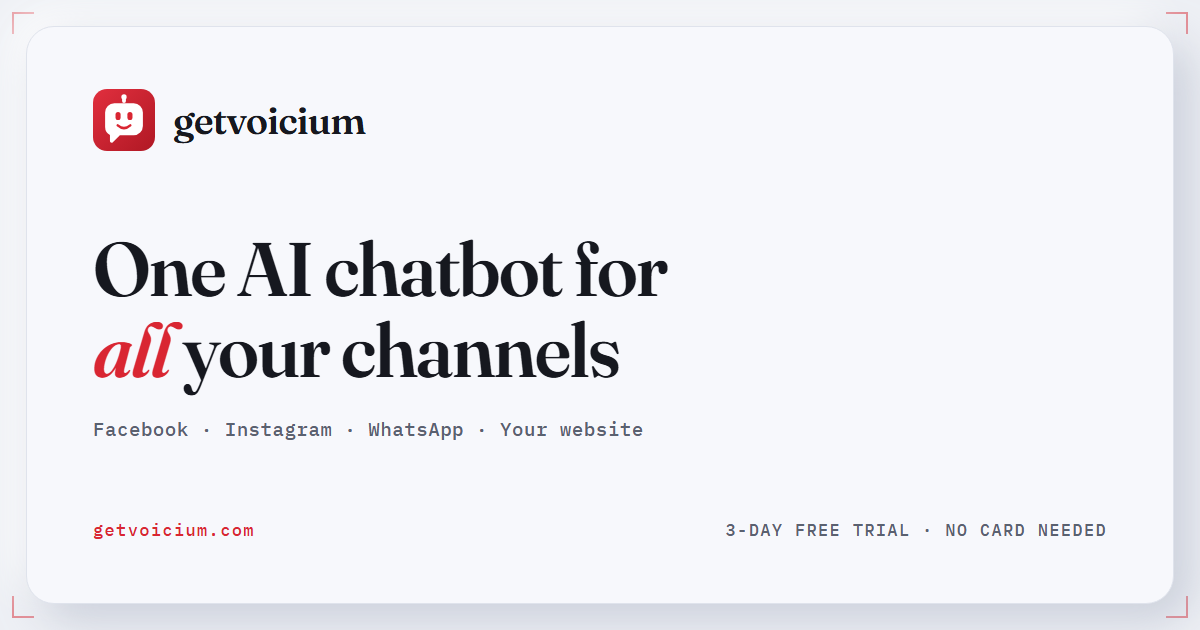
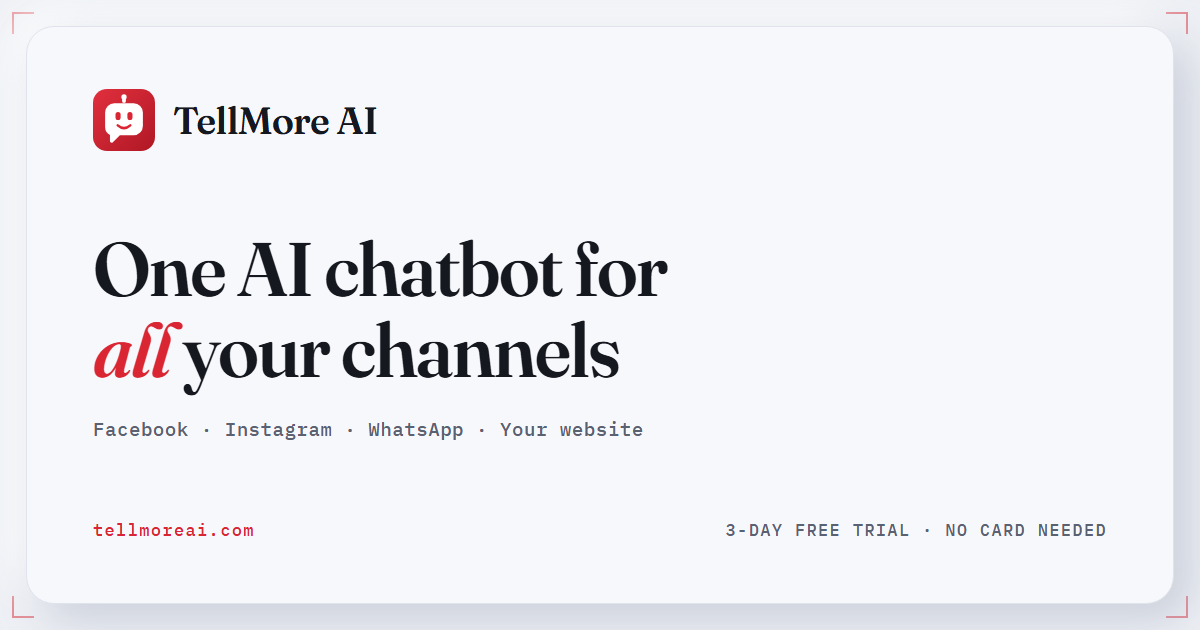
Domain switch in code: every link now points to www.tellmoreai.com
tellmoreai.com is live on Vercel (A 216.198.79.1, apex 308 -> www) and the
new URIs are registered with Meta, Google and Supabase, so the code moves:

- seo.js SITE, robots.js, sitemap -> https://www.tellmoreai.com (canonical,
  og:url, JSON-LD, sitemap all on the new host).
- Emails: every link to the dashboard/admin -> tellmoreai.com. The footer's
  support address was support@getvoicium.com, a mailbox the new brand will
  not keep; it now reads COMPANY.email (office@autolinium.com, the contact the
  site already shows), and every email sets reply_to to it, so "just reply"
  reaches a real inbox whatever address RESEND_FROM sends from.
- push.js VAPID contact defaults to COMPANY.email.
- Admin Meta-webhooks repair default callback -> www.tellmoreai.com.
- Privacy / Terms / PushToggle / preview snippet / screenshot studio text.
- Mobile: Capacitor server.url -> https://www.tellmoreai.com/dashboard
  (NEEDS AN APK REBUILD); the downloaded file is tellmoreai.apk.
- og.png / og-bn.png / logo.png regenerated with tellmoreai.com.
- Video script, docs, README, CLAUDE.md.

Deliberately unchanged (identifiers, not what anyone reads): Android appId
com.getvoicium.app, Firebase project id / google-services.json, the old TWA
assetlinks, the committed keystore's dname.

getvoicium.com keeps serving the same deployment: no redirect yet, because
the installed APK, a client's website widget (API host = its script's
origin) and Meta's webhooks still live on the old host.

45/45 suites.

Changed region(s): [[0.1233, 0.1508, 0.3392, 0.2413], [0.0925, 0.8143, 0.185, 0.8746]]

diff --git a/src/lib/email.js b/src/lib/email.js
@@ -2,6 +2,7 @@
 // break the signup/approval flow. Returns { ok, error }.
 
 import { formatDhakaDate } from "@/lib/time.js";
+import { COMPANY } from "@/lib/company.js";
 
 const RESEND_API_KEY = process.env.RESEND_API_KEY;
 const FROM = process.env.RESEND_FROM || "TellMore AI <onboarding@resend.dev>";
@@ -16,7 +17,9 @@ async function send({ to, subject, html }) {
         Authorization: `Bearer ${RESEND_API_KEY}`,
         "Content-Type": "application/json",
       },
-      body: JSON.stringify({ from: FROM, to: Array.isArray(to) ? to : [to], subject, html }),
+      // reply_to: the footer says "just reply", so a reply must reach a real mailbox
+      // whatever address RESEND_FROM sends from.
+      body: JSON.stringify({ from: FROM, reply_to: COMPANY.email, to: Array.isArray(to) ? to : [to], subject, html }),
     });
     if (!res.ok) {
       const t = await res.text().catch(() => "");
@@ -51,7 +54,7 @@ function clientWrap(title, body) {
     <div style="font-size:17px;font-weight:600;margin-bottom:12px">${title}</div>
     <div style="font-size:14px;line-height:1.7;color:#c9d3e6">${body}</div>
     <div style="height:1px;background:#1a2744;margin:22px 0"></div>
-    <div style="font-size:12px;color:#8b9cbd;line-height:1.7">You're receiving this because you use TellMore AI at <a href="https://www.getvoicium.com" style="color:#D92632;text-decoration:none">getvoicium.com</a>.<br/>Questions? Just reply to this email, or write to <a href="mailto:support@getvoicium.com" style="color:#D92632;text-decoration:none">support@getvoicium.com</a>.</div>
+    <div style="font-size:12px;color:#8b9cbd;line-height:1.7">You're receiving this because you use TellMore AI at <a href="https://www.tellmoreai.com" style="color:#D92632;text-decoration:none">tellmoreai.com</a>.<br/>Questions? Just reply to this email, or write to <a href="mailto:${COMPANY.email}" style="color:#D92632;text-decoration:none">${COMPANY.email}</a>.</div>
   </div>`;
 }
 
@@ -63,7 +66,7 @@ export async function notifyNewAdminSignup(newEmail) {
     html: wrap(
       "New admin access request",
       `<strong style="color:#D92632">${newEmail}</strong> has signed up and is awaiting approval.
-       <br/><br/>Open the <a href="https://www.getvoicium.com/admin" style="color:#D92632">Admin panel</a>,
+       <br/><br/>Open the <a href="https://www.tellmoreai.com/admin" style="color:#D92632">Admin panel</a>,
        enter your secret key, and assign them a role (Viewer, Editor, or Full Access) to approve — or leave them pending to deny.`
     ),
   });
@@ -80,7 +83,7 @@ export async function notifyAdminApproved(adminEmail, role) {
       `Your admin access has been approved with the role
        <strong style="color:#22c55e">${labels[role] || role}</strong>.
        <br/><br/>You can now sign in at the
-       <a href="https://www.getvoicium.com/admin" style="color:#D92632">Admin panel</a>
+       <a href="https://www.tellmoreai.com/admin" style="color:#D92632">Admin panel</a>
        using the email and password you registered with.`
     ),
   });
@@ -100,7 +103,7 @@ export async function notifyPaymentRequest({ business, email, plan, cycle, amoun
        Method: <strong>${method}</strong><br/>
        Transaction ID: <strong>${txnId}</strong>
        <br/><br/>Verify the transaction, then approve it in the
-       <a href="https://www.getvoicium.com/admin" style="color:#D92632">Admin panel</a>.`
+       <a href="https://www.tellmoreai.com/admin" style="color:#D92632">Admin panel</a>.`
     ),
   });
 }
@@ -115,7 +118,7 @@ export async function notifyPaymentApproved(clientEmail, planName, expiresAt) {
       "\u{1F389} Payment confirmed",
       `Your payment has been verified and your <strong style="color:#22c55e">${planName}</strong> plan is now active.
        ${until ? `<br/><br/>Valid until <strong>${until}</strong>.` : ""}
-       <br/><br/>Open your <a href="https://www.getvoicium.com/dashboard" style="color:#D92632">dashboard</a> to keep going.`
+       <br/><br/>Open your <a href="https://www.tellmoreai.com/dashboard" style="color:#D92632">dashboard</a> to keep going.`
     ),
   });
 }
@@ -124,7 +127,7 @@ export async function notifyPaymentApproved(clientEmail, planName, expiresAt) {
 // An order and a booking are money; a customer waiting for a person is a
 // customer about to leave. One email each, on the event — no throttling, because
 // missing one costs more than reading one. Push goes out too (push.js notify).
-const dash = (tab) => `<a href="https://www.getvoicium.com/dashboard#${tab}" style="color:#D92632">dashboard</a>`;
+const dash = (tab) => `<a href="https://www.tellmoreai.com/dashboard#${tab}" style="color:#D92632">dashboard</a>`;
 const esc = (s) => String(s ?? "").replace(/[&<>"]/g, (c) => ({ "&": "&amp;", "<": "&lt;", ">": "&gt;", '"': "&quot;" }[c]));
 
 export async function notifyNewOrder(clientEmail, { customer, products, total, orderCode, platform }) {
@@ -218,7 +221,7 @@ export async function notifyKeyFailing(clientEmail, { business, provider, model,
        ${safeErr ? `<br/><br/>What the provider returned:<br/><span style="font-size:12px;color:#8b9cbd">${safeErr}</span>` : ""}
        <br/><br/>Top up or fix billing with your provider, or paste a new key — your bot resumes automatically once the key works again.
        <br/><br/>
-       <a href="https://www.getvoicium.com/dashboard#ai" style="display:inline-block;background:#D92632;color:#ffffff;padding:11px 22px;border-radius:8px;font-weight:700;text-decoration:none">Open AI Engine</a>
+       <a href="https://www.tellmoreai.com/dashboard#ai" style="display:inline-block;background:#D92632;color:#ffffff;padding:11px 22px;border-radius:8px;font-weight:700;text-decoration:none">Open AI Engine</a>
        <br/><br/><span style="font-size:12px;color:#8b9cbd">You'll get this once per outage, not for every message.</span>`
     ),
   });
@@ -285,7 +288,7 @@ export async function notifyBotBlocked(clientEmail, { business, reason, used, li
        They are not told why — your bot simply stays silent, so nothing tells a customer that a subscription has lapsed.
        Every message they send is still saved, and it will be waiting in your inbox the moment you renew.
        <br/><br/>
-       <a href="https://www.getvoicium.com/dashboard#billing" style="display:inline-block;background:#D92632;color:#ffffff;padding:11px 22px;border-radius:8px;font-weight:700;text-decoration:none">Upgrade now</a>
+       <a href="https://www.tellmoreai.com/dashboard#billing" style="display:inline-block;background:#D92632;color:#ffffff;padding:11px 22px;border-radius:8px;font-weight:700;text-decoration:none">Upgrade now</a>
        <br/><br/>
        <span style="font-size:12px;color:#8b9cbd">You will get this reminder at most once a day.</span>`
     ),
@@ -320,7 +323,7 @@ export async function notifyExpiringSoon(clientEmail, { business, plan, daysLeft
          ? "Pick a plan to keep everything running — your products, knowledge base and conversations all stay exactly as they are."
          : "Renew to keep your bot answering without a break."}
        <br/><br/>
-       <a href="https://www.getvoicium.com/dashboard#billing" style="display:inline-block;background:#D92632;color:#ffffff;padding:11px 22px;border-radius:8px;font-weight:700;text-decoration:none">${isTrial ? "Choose a plan" : "Renew now"}</a>`
+       <a href="https://www.tellmoreai.com/dashboard#billing" style="display:inline-block;background:#D92632;color:#ffffff;padding:11px 22px;border-radius:8px;font-weight:700;text-decoration:none">${isTrial ? "Choose a plan" : "Renew now"}</a>`
     ),
   });
 }

diff --git a/marketing/explainer-video/scene.html b/marketing/explainer-video/scene.html
@@ -303,7 +303,7 @@ const S = {
   widget(sc) {
     return { html: left(sc.title, sc.sub) + laptop(`<div class="web"><div class="nav2"><span style="font-family:Fraunces,Georgia,serif;font-size:15px">Broker's BD</span><span style="color:#5B6070">${T("Shop · New · Sale · Contact","শপ · নতুন · সেল · যোগাযোগ")}</span></div><div class="hero"><div style="flex:1"><h1>${T("Streetwear that fits Dhaka.","ঢাকার মাপের স্ট্রিটওয়্যার।")}</h1><p>${T("Baggy denims, jerseys and hoodies — delivered anywhere in Bangladesh.","Baggy denim, jersey আর hoodie — বাংলাদেশের যেকোনো জায়গায় ডেলিভারি।")}</p></div><div style="width:260px;height:150px;border-radius:14px;background:linear-gradient(135deg,#2F3340,#151821)"></div></div><div class="grid"><div></div><div></div><div></div></div>
       <div class="wchat grow" id="wc"><div class="wh">Broker's BD · ${T("Chat with us","আমাদের সাথে চ্যাট")}</div><div class="msgs" style="justify-content:flex-start;padding:10px"><div class="bub b show" style="font-size:12px">${T("Hi! Ask me about sizes, prices or delivery.","হাই! সাইজ, দাম বা ডেলিভারি নিয়ে জিজ্ঞেস করুন।")}</div><div class="bub c" id="w1" style="font-size:12px">${T("Do you ship outside Dhaka?","ঢাকার বাইরে পাঠান?")}</div><div class="bub b" id="w2" style="font-size:12px">${T("Yes — anywhere in Bangladesh, ৳130 outside Dhaka, 2–4 days.","জি — সারা বাংলাদেশে, ঢাকার বাইরে ৳১৩০, ২–৪ দিনে।")}</div></div></div><div class="wbub grow" id="wb">${LOGO.replace('viewBox','width="30" height="30" viewBox')}</div></div>`) +
-      `<div class="card slide" id="cd" style="position:absolute;left:96px;top:760px;width:700px"><h4>${T("Paste one line into your site","আপনার সাইটে এক লাইন বসান")}</h4><div class="code">&lt;script src="<em>https://www.getvoicium.com/widget.js</em>" data-key="gv_…"&gt;&lt;/script&gt;</div></div>`,
+      `<div class="card slide" id="cd" style="position:absolute;left:96px;top:760px;width:700px"><h4>${T("Paste one line into your site","আপনার সাইটে এক লাইন বসান")}</h4><div class="code">&lt;script src="<em>https://www.tellmoreai.com/widget.js</em>" data-key="gv_…"&gt;&lt;/script&gt;</div></div>`,
       run() { intro(); show("#cd", 2.0); show("#wb", 3.4); show("#wc", 4.6); show("#w1", 6.2); show("#w2", 7.8); } };
   },
   analytics(sc) {
@@ -319,7 +319,7 @@ const S = {
       run() { intro(); show("#tr", 2.2); show("#pl0", 3.4); show("#pl1", 4.0); show("#pl2", 4.6); show("#pay", DUR*.6); } };
   },
   outro(sc) {
-    return { html: `<div class="center"><div class="biglogo">${LOGO}</div><div class="title">${sc.title.split(" ").map(w=>`<span class="w">${w}</span>`).join(" ")}</div><div class="site grow">getvoicium.com</div><div class="cta grow">${T("Start your free trial","ফ্রি ট্রায়াল শুরু করুন")} →</div></div>`,
+    return { html: `<div class="center"><div class="biglogo">${LOGO}</div><div class="title">${sc.title.split(" ").map(w=>`<span class="w">${w}</span>`).join(" ")}</div><div class="site grow">tellmoreai.com</div><div class="cta grow">${T("Start your free trial","ফ্রি ট্রায়াল শুরু করুন")} →</div></div>`,
       run() { show(".biglogo", .3); words(1.0); show(".site", DUR*.45); show(".cta", DUR*.55); } };
   },
 };

diff --git a/src/lib/seo.js b/src/lib/seo.js
@@ -2,7 +2,7 @@
 //
 // Before this file existed the public pages carried a title and a description
 // and nothing else. Two things followed from that. Google had no name to print
-// above a result, so it printed the bare domain — "getvoicium.com" instead of
+// above a result, so it printed the bare domain — "tellmoreai.com" instead of
 // "TellMore AI". And a link pasted into Messenger or WhatsApp — which is where
 // this product's customers actually are — unfurled as an empty grey box, with
 // no picture, no headline and no sentence.
@@ -12,7 +12,7 @@
 
 import { COMPANY } from "@/lib/company.js";
 
-export const SITE = "https://www.getvoicium.com";
+export const SITE = "https://www.tellmoreai.com";
 export const BRAND = "TellMore AI";
 
 // Built by scripts/make-og-images.mjs, one per language. A Bangla reader who is

diff --git a/video/src/copy.js b/video/src/copy.js
@@ -45,7 +45,7 @@ export const COPY = {
     ],
 
     ctaTitle: "Start free. No card needed.",
-    ctaSub: "3-day trial · Bangla and English · getvoicium.com",
+    ctaSub: "3-day trial · Bangla and English · tellmoreai.com",
     ctaButton: "Start free trial",
   },
 
@@ -91,7 +91,7 @@ export const COPY = {
     ],
 
     ctaTitle: "ফ্রিতে শুরু করুন। কার্ড লাগবে না।",
-    ctaSub: "৩ দিনের ট্রায়াল · বাংলা ও ইংরেজি · getvoicium.com",
+    ctaSub: "৩ দিনের ট্রায়াল · বাংলা ও ইংরেজি · tellmoreai.com",
     ctaButton: "ফ্রি ট্রায়াল শুরু করুন",
   },
 };

diff --git a/src/app/terms/page.js b/src/app/terms/page.js
@@ -15,7 +15,7 @@ export default function Terms() {
     <SiteShell
       eyebrow="Legal"
       title="Terms of Service"
-      lead={`These Terms of Service ("Terms") govern your use of TellMore AI ("we", "our", "us"), an AI-powered customer service chatbot platform operated at getvoicium.com. By creating an account or using the platform, you agree to these Terms.`}
+      lead={`These Terms of Service ("Terms") govern your use of TellMore AI ("we", "our", "us"), an AI-powered customer service chatbot platform operated at tellmoreai.com. By creating an account or using the platform, you agree to these Terms.`}
       updated="July 18, 2026"
     >
       <Section title="1. The Service">

diff --git a/src/app/dashboard-client.js b/src/app/dashboard-client.js
@@ -763,7 +763,7 @@ export default function Dashboard() {
     (async()=>{
       const { data:{ session } }=await getSb().auth.getSession();
       // Installed as an app, it must have a login of its OWN. A Trusted Web
-      // Activity shares getvoicium.com's cookies with the phone's Chrome, so
+      // Activity shares tellmoreai.com's cookies with the phone's Chrome, so
       // someone already signed in there would otherwise land straight in the
       // dashboard without ever signing into the app — which does not read as a
       // real app. So in app mode we ignore that shared session until the owner

diff --git a/src/app/preview-dash/tabs.js b/src/app/preview-dash/tabs.js
@@ -346,7 +346,7 @@ function Widget() {
         </p>
         <div style={{ background: D.rail, borderRadius: 10, padding: 14, fontFamily: "'IBM Plex Mono', monospace",
           fontSize: 12, color: "#C8D3EA", lineHeight: 1.7, overflowX: "auto", marginBottom: 14 }}>
-          &lt;script src=&quot;https://www.getvoicium.com/widget.js&quot;<br />
+          &lt;script src=&quot;https://www.tellmoreai.com/widget.js&quot;<br />
           &nbsp;&nbsp;data-client=&quot;wk_FxRNUxXx-05kbCbnZZX4KT_kn5wVugqd&quot;&gt;&lt;/script&gt;
         </div>
         <Btn kind="primary" icon="ti-copy">Copy the line</Btn>

diff --git a/src/app/privacy/page.js b/src/app/privacy/page.js
@@ -18,7 +18,7 @@ export default function Privacy() {
     <SiteShell
       eyebrow="Legal"
       title="Privacy Policy"
-      lead={`TellMore AI ("we", "our", "us") operates an AI-powered chatbot platform at getvoicium.com. This Privacy Policy explains how we collect, use, store, and protect data.`}
+      lead={`TellMore AI ("we", "our", "us") operates an AI-powered chatbot platform at tellmoreai.com. This Privacy Policy explains how we collect, use, store, and protect data.`}
       updated="September 3, 2026"
     >
       <Section title="1. Information We Collect">

diff --git a/src/app/dashboard/components/PushToggle.js b/src/app/dashboard/components/PushToggle.js
@@ -127,7 +127,7 @@ export default function PushToggle() {
   if (state === "denied") return (
     <Row sub={native
       ? "Blocked on this phone. Allow them in Settings → Apps → TellMore AI → Notifications, then reopen the app."
-      : "Blocked in this browser. Allow them for getvoicium.com in the browser's site settings, then reload this page."}>
+      : "Blocked in this browser. Allow them for tellmoreai.com in the browser's site settings, then reload this page."}>
       <Switch on={false} disabled title="Blocked" />
     </Row>
   );

diff --git a/src/lib/push.js b/src/lib/push.js
@@ -8,10 +8,11 @@
 import webpush from "web-push";
 import { supabase } from "@/lib/supabase.js";
 import { sendFcm } from "@/lib/fcm.js";
+import { COMPANY } from "@/lib/company.js";
 
 const PUBLIC = process.env.NEXT_PUBLIC_VAPID_PUBLIC_KEY || "";
 const PRIVATE = process.env.VAPID_PRIVATE_KEY || "";
-const SUBJECT = process.env.VAPID_SUBJECT || "mailto:support@getvoicium.com";
+const SUBJECT = process.env.VAPID_SUBJECT || `mailto:${COMPANY.email}`;
 
 let configured = false;
 function configure() {

diff --git a/src/app/shots/studio.js b/src/app/shots/studio.js
@@ -153,7 +153,7 @@ export default function Studio({ tab, theme }) {
       const w = document.createTreeWalker(document.body, NodeFilter.SHOW_TEXT);
       for (let n = w.nextNode(); n; n = w.nextNode()) {
         if (n.nodeValue.includes("localhost:3000")) {
-          n.nodeValue = n.nodeValue.replace(/https?:\/\/localhost:3000/g, "https://getvoicium.com");
+          n.nodeValue = n.nodeValue.replace(/https?:\/\/localhost:3000/g, "https://www.tellmoreai.com");
         }
       }
     };

diff --git a/src/app/robots.js b/src/app/robots.js
@@ -1,7 +1,7 @@
-// robots.txt for getvoicium.com — tells search engines what they may crawl.
+// robots.txt for tellmoreai.com — tells search engines what they may crawl.
 // Next.js App Router serves this automatically at /robots.txt.
 // Canonical host is www (the apex 308-redirects to it), so we point there.
-const BASE = "https://www.getvoicium.com";
+const BASE = "https://www.tellmoreai.com";
 
 export default function robots() {
   return {
